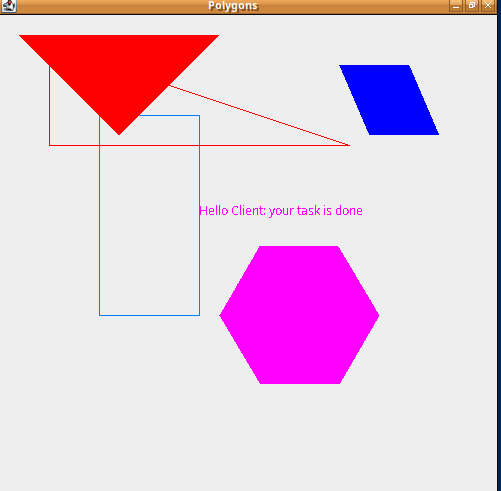
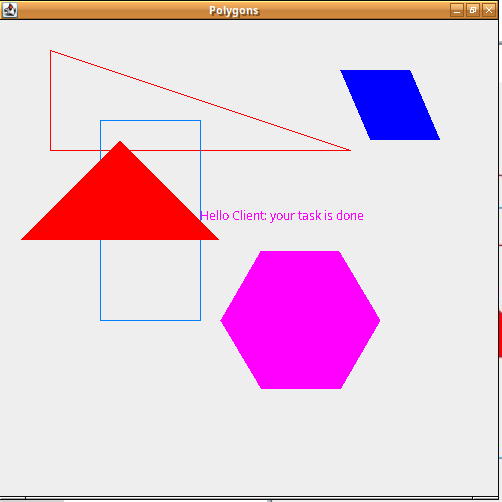
Sample checkin

diff --git a/IsoscelesTriangle.java b/IsoscelesTriangle.java
@@ -11,7 +11,7 @@ public class IsoscelesTriangle extends SolidPolygon {
     public IsoscelesTriangle(Color color, Point top, int height, int width) {
         super(color, 3);
         int[] x_points = {top.x, top.x + width / 2, top.x - width / 2};
-        int[] y_points = {top.y, top.y - height, top.y - height};
+        int[] y_points = {top.y, top.y + height, top.y + height};
         createPolygon(x_points, y_points);
     }
 }
